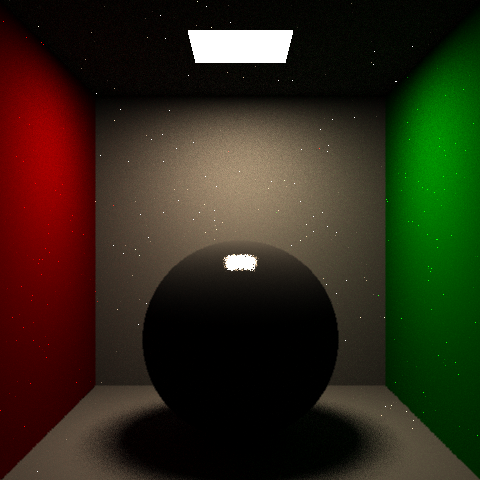
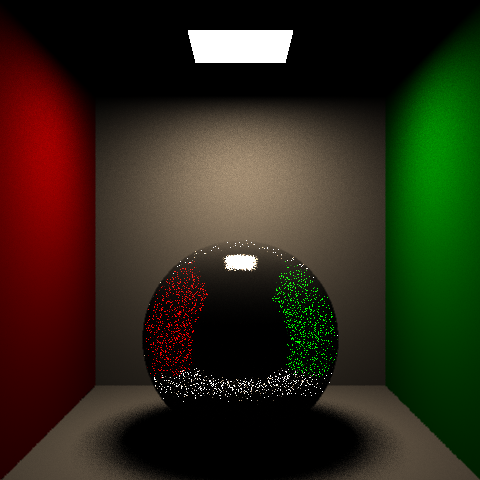
Continued brdf sampling WIP

Changed region(s): [[0.3125, 0.5625, 0.6875, 0.8125], [0.4688, 0.5312, 0.5625, 0.5625]]

diff --git a/src/raytracer.cpp b/src/raytracer.cpp
@@ -1101,17 +1101,24 @@ glm::vec3 PathTracerFindColor(UniformGrid* grid, const Ray& ray, Scene* scene, C
 			glm::vec3 u = glm::normalize(glm::cross(helper, w));
 			glm::vec3 v = glm::cross(w, u);
 
-			w_i = s.x * u + s.y * v + s.z * w;	
+			Ray secondaryRay(intersection.intersectionPoint + intersection.hitObjectNormal * 0.001f, glm::normalize(w_i));
+			Intersection secondaryIntersection = FindIntersection(grid, scene, secondaryRay, false);
+			glm::vec3 wo = glm::normalize(ray.origin - intersection.intersectionPoint);
+			glm::vec3 wi = glm::normalize(w_i);
 
-			glm::vec3 R = glm::reflect(-wi, intersection.hitObjectNormal);
+			glm::vec3 R = glm::reflect(-wo, intersection.hitObjectNormal);
 			float spec = std::pow(std::max(glm::dot(R, wo), 0.0f), intersection.hitObjectShininess);
 
 
-			if (glm::dot(w_i, intersection.hitObjectNormal) <= 0.0f)
+			w_i = s.x * u + s.y * v + s.z * w;	
+
+
+
+			if (glm::dot(w_i, intersection.hitObjectNormal) >= 0.0f)
 			{
 				brdf +=
-					(1.0f - t) * (intersection.hitObjectDiffuse / (float)M_PI) +
-					t * (intersection.hitObjectSpecular * ((intersection.hitObjectShininess + 2.0f) / (2.0f * (float)M_PI)) * spec);
+					(1 - t) * (intersection.hitObjectDiffuse / (float)M_PI) + (t * (intersection.hitObjectSpecular * ((intersection.hitObjectShininess + 2.0f) / (2.0f * (float)M_PI)) * spec));
+	
 			}
 			else
 			{
@@ -1125,7 +1132,7 @@ glm::vec3 PathTracerFindColor(UniformGrid* grid, const Ray& ray, Scene* scene, C
 			float phi = 2.0f * (float)M_PI * xi2;
 
 			float theta_diffuse = glm::acos(glm::sqrt(xi1));
-			float theta_specular = glm::acos(glm::pow(xi1, 1.0 / intersection.hitObjectShininess + 1));
+			float theta_specular = glm::acos(glm::pow(xi1, 1.0 / (intersection.hitObjectShininess + 1)));
 
 			glm::vec3 s = glm::vec3(0.0f);
 			s.x = glm::cos(phi) * glm::sin(theta_diffuse);
@@ -1133,6 +1140,15 @@ glm::vec3 PathTracerFindColor(UniformGrid* grid, const Ray& ray, Scene* scene, C
 			s.z = glm::cos(theta_diffuse);
 
 			w_i = s.x * u + s.y * v + s.z * w;
+
+			Ray secondaryRay(intersection.intersectionPoint + intersection.hitObjectNormal * 0.001f, glm::normalize(w_i));
+			Intersection secondaryIntersection = FindIntersection(grid, scene, secondaryRay, false);
+			glm::vec3 wo = glm::normalize(ray.origin - intersection.intersectionPoint);
+			glm::vec3 wi = glm::normalize(w_i);
+
+			glm::vec3 R = glm::reflect(-wi, intersection.hitObjectNormal);
+			float spec = std::pow(std::max(glm::dot(R, wo), 0.0f), intersection.hitObjectShininess);
+
 
 			brdf =
 				(1.0f - t) * (intersection.hitObjectDiffuse / (float)M_PI);
@@ -1144,10 +1160,7 @@ glm::vec3 PathTracerFindColor(UniformGrid* grid, const Ray& ray, Scene* scene, C
 
 			glm::vec3 w_i = s.x * u + s.y * v + s.z * w;
 
-			brdf +=
-				(1.0f - t) * (intersection.hitObjectDiffuse / (float)M_PI) +
-				t * (intersection.hitObjectSpecular * ((intersection.hitObjectShininess + 2.0f) / (2.0f * (float)M_PI)) * spec);
-
+			brdf = brdf + (t * (intersection.hitObjectSpecular * ((intersection.hitObjectShininess + 2.0f) / (2.0f * (float)M_PI)) * spec));
 
 		}
 
@@ -1177,7 +1190,7 @@ glm::vec3 PathTracerFindColor(UniformGrid* grid, const Ray& ray, Scene* scene, C
 			}
 			else
 			{
-				throughput *= brdf * ((1.0f - t) * (intersection.hitObjectDiffuse / (float)M_PI));
+				throughput *= brdf * ((1.0f - t) * (intersection.hitObjectDiffuse / (float)M_PI)) * ((t * ((intersection.hitObjectShininess + 2.0f) / (2.0f * (float)M_PI)) * spec));
 			}
 		}
 
